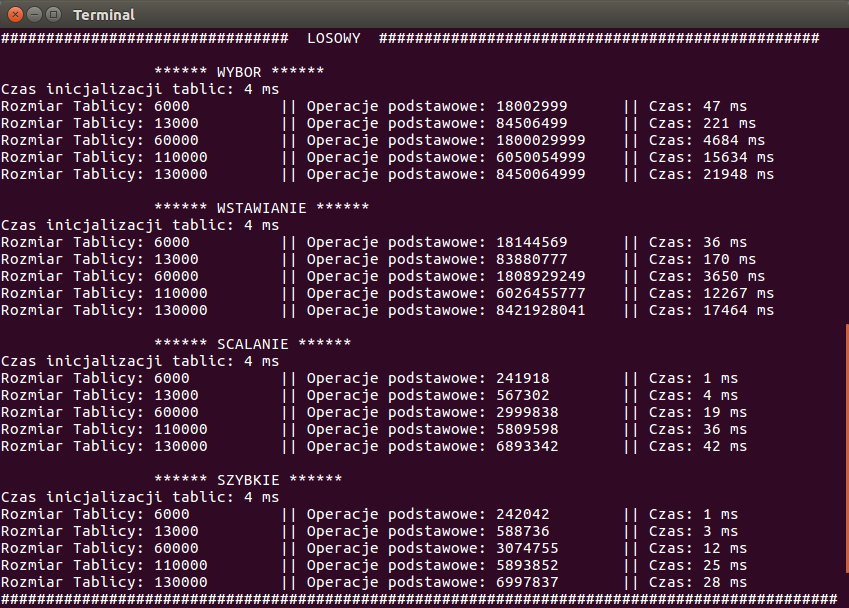
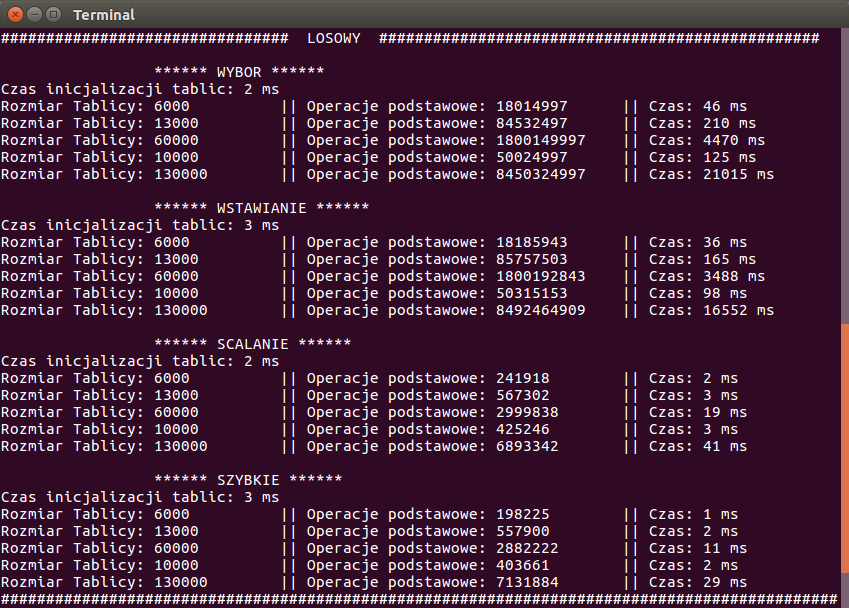
Change screenshots

diff --git a/sortowania.c b/sortowania.c
@@ -48,8 +48,8 @@ void zamien(int *a, int *b);
 
 int main(void){
 	sprawdzTabliceWPrzypadkuOptymistycznym();
-	sprawdzTabliceWPrzypadkuPesymistycznym();
-	sprawdzTabliceWPrzypadkuLosowym();
+	//sprawdzTabliceWPrzypadkuPesymistycznym();
+	//sprawdzTabliceWPrzypadkuLosowym();
 }
 
 void sprawdzTabliceWPrzypadkuOptymistycznym(){
@@ -330,7 +330,7 @@ void sortowanieSzybkie(int tab [], int poczatek, int koniec, unsigned long *oper
 }
 
 int podzial(int tab[], int poczatek, int koniec, unsigned long *operacjePodst){
-	int mur = tab[koniec];
+	int mur = tab[(poczatek+koniec)/2];
 	++(*operacjePodst);
 	int i = poczatek-1;
 	for (int j = poczatek; j < koniec-1; ++j){
